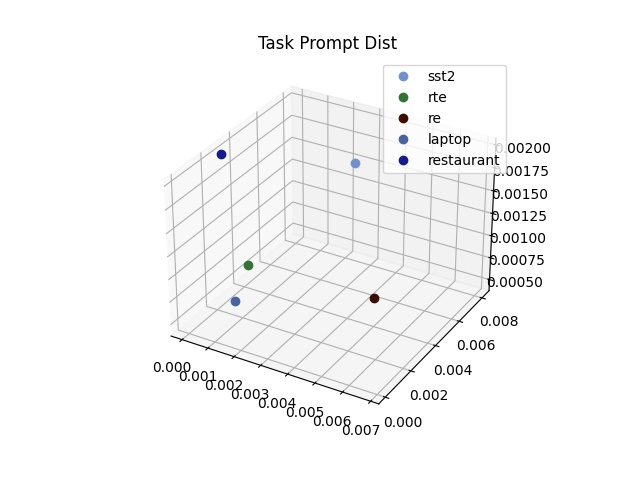
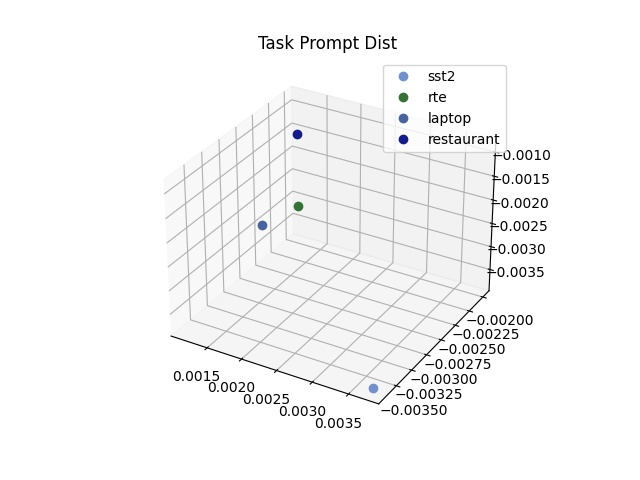
update

Changed region(s): [[0.2188, 0.1875, 0.875, 0.9062]]

diff --git a/draw_cuda_taskprompt.py b/draw_cuda_taskprompt.py
@@ -385,8 +385,13 @@ task_map={0:"sst2",1:"rte",2:"re",3:"MNLI",4:"MRPC",5:"QNLI",6:"QQP",7:"WNLI",8:
 
 color_map={0:"#728FCE",1:"#347235",2:"#3D0C02",3:"#6B8E23",4:"#C04000",5:"QNLI",6:"#CB6D51",7:"#556B2F",8:"STSB",9:"#4863A0",10:"#151B8D"}
 
+#sentiment, NLI, RE, Para
 #blocked_list = [5,8]
-blocked_list = [5,8,3,4,5,6,7,8]
+
+#sentiment, RE
+blocked_list = [5,8,3,4,5,6,7,8,2]
+
+#sentiment, NLI
 
 #re generate id
 #plot on 3D: https://www.delftstack.com/zh-tw/howto/matplotlib/scatter-plot-legend-in-matplotlib/#%25E5%259C%25A8-matplotlib-3d-%25E6%2595%25A3%25E9%25BB%259E%25E5%259C%2596%25E4%25B8%258A%25E6%2596%25B0%25E5%25A2%259E%25E5%259C%2596%25E4%25BE%258B
@@ -397,22 +402,13 @@ if dim ==3:
     #axes = plt.subplot(222, projection='3d')
 else:
     pass
-x_list = list()
-y_list = list()
-z_list = list()
-color_list = list()
-label_list = list()
+
 for task_id, task_name in task_map.items():
     print(task_id)
     if task_id in blocked_list:
         continue
 
     print(compressed_prompt_emb[task_id])
-    x_list.append(compressed_prompt_emb[task_id][0])
-    y_list.append(compressed_prompt_emb[task_id][1])
-    z_list.append(compressed_prompt_emb[task_id][2])
-    color_list.append(color_map[task_id])
-    label_list.append(task_map[task_id])
 
     if dim == 2:
         plt.scatter(compressed_prompt_emb[task_id][0], compressed_prompt_emb[task_id][1], color=color_map[task_id], label=task_map[task_id], s=100)
@@ -423,12 +419,6 @@ for task_id, task_name in task_map.items():
         print("Wonrg!!!")
         exit()
 
-'''
-if dim == 2:
-    pass
-elif dim == 3:
-    axes.plot(x_list, y_list, z_list, color=color_map[task_id], label=task_map[task_id])
-'''
 
 
 plt.legend()
